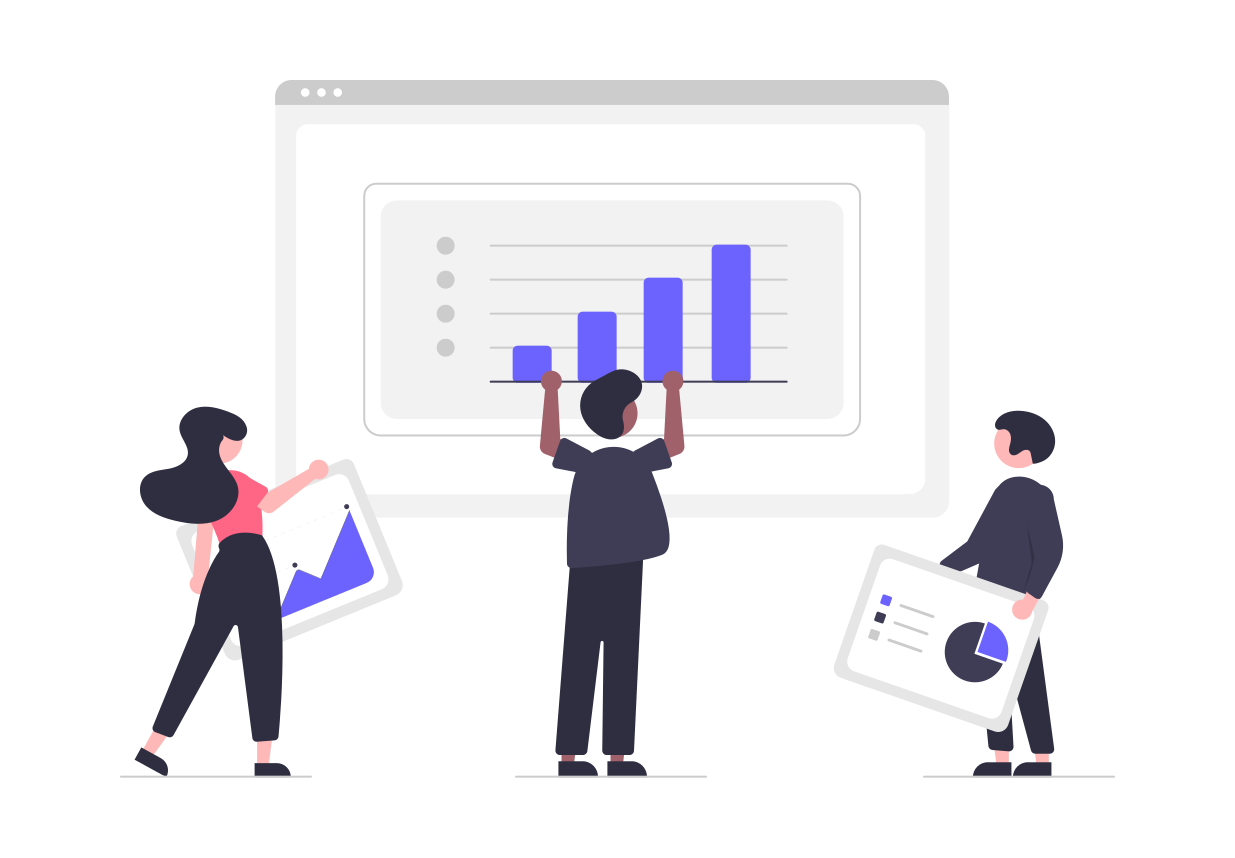
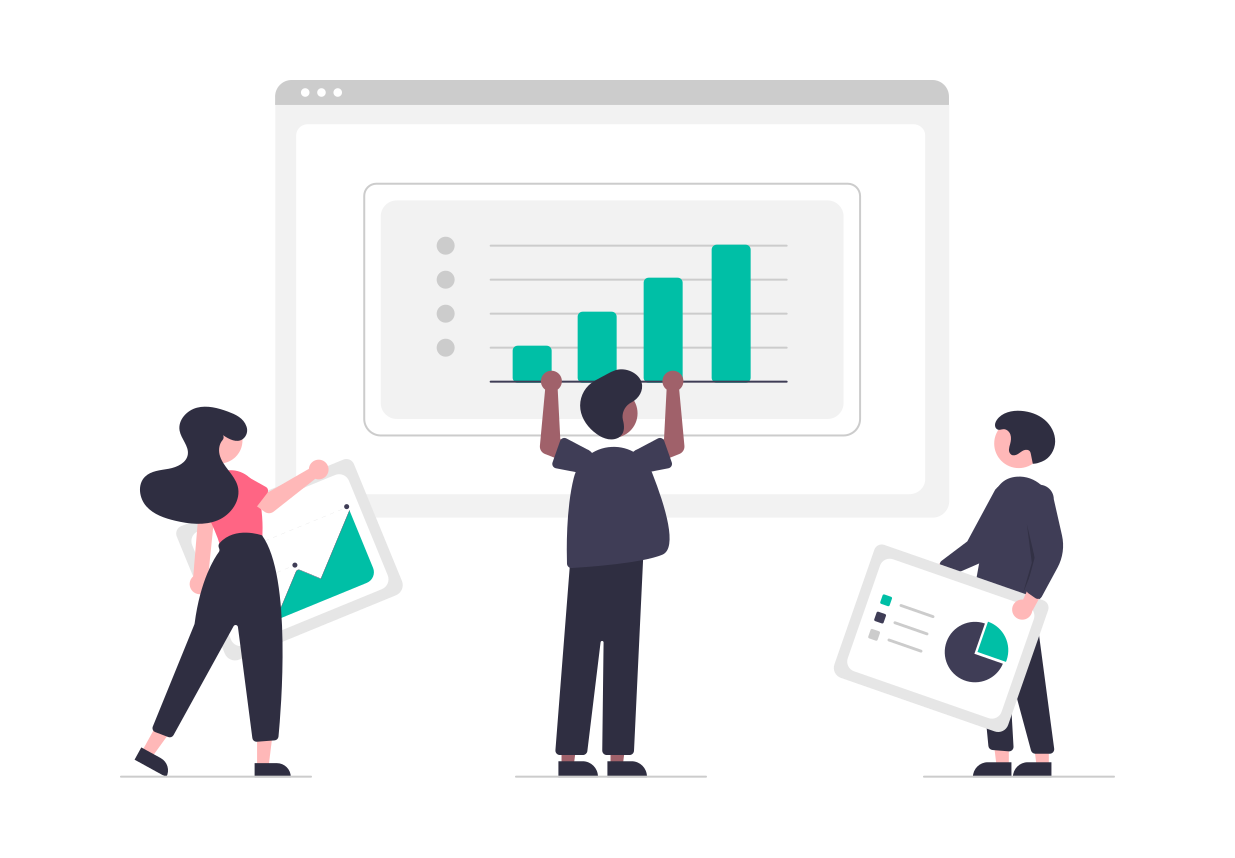
Deployed dd256e3c with MkDocs version: 1.1.2

Changed region(s): [[0.4, 0.2727, 0.6154, 0.4545], [0.2154, 0.6061, 0.3077, 0.7273], [0.7692, 0.7273, 0.8308, 0.7879]]

diff --git a/404.html b/404.html
@@ -29,7 +29,7 @@
         
           
           
-          <meta name="theme-color" content="">
+          <meta name="theme-color" content="#009485">
         
       
     
@@ -56,7 +56,7 @@
     
     
     
-    <body dir="ltr" data-md-color-scheme="" data-md-color-primary="default" data-md-color-accent="">
+    <body dir="ltr" data-md-color-scheme="" data-md-color-primary="teal" data-md-color-accent="">
       
   
     

diff --git a/index.html b/index.html
@@ -29,7 +29,7 @@
         
           
           
-          <meta name="theme-color" content="">
+          <meta name="theme-color" content="#009485">
         
       
     
@@ -56,7 +56,7 @@
     
     
     
-    <body dir="ltr" data-md-color-scheme="" data-md-color-primary="default" data-md-color-accent="">
+    <body dir="ltr" data-md-color-scheme="" data-md-color-primary="teal" data-md-color-accent="">
       
   
     

diff --git a/mozdata/account_ecosystem/index.html b/mozdata/account_ecosystem/index.html
@@ -29,7 +29,7 @@
         
           
           
-          <meta name="theme-color" content="">
+          <meta name="theme-color" content="#009485">
         
       
     
@@ -56,7 +56,7 @@
     
     
     
-    <body dir="ltr" data-md-color-scheme="" data-md-color-primary="default" data-md-color-accent="">
+    <body dir="ltr" data-md-color-scheme="" data-md-color-primary="teal" data-md-color-accent="">
       
   
     

diff --git a/mozdata/activity_stream/index.html b/mozdata/activity_stream/index.html
@@ -29,7 +29,7 @@
         
           
           
-          <meta name="theme-color" content="">
+          <meta name="theme-color" content="#009485">
         
       
     
@@ -56,7 +56,7 @@
     
     
     
-    <body dir="ltr" data-md-color-scheme="" data-md-color-primary="default" data-md-color-accent="">
+    <body dir="ltr" data-md-color-scheme="" data-md-color-primary="teal" data-md-color-accent="">
       
   
     

diff --git a/mozdata/amo_dev/index.html b/mozdata/amo_dev/index.html
@@ -29,7 +29,7 @@
         
           
           
-          <meta name="theme-color" content="">
+          <meta name="theme-color" content="#009485">
         
       
     
@@ -56,7 +56,7 @@
     
     
     
-    <body dir="ltr" data-md-color-scheme="" data-md-color-primary="default" data-md-color-accent="">
+    <body dir="ltr" data-md-color-scheme="" data-md-color-primary="teal" data-md-color-accent="">
       
   
     

diff --git a/mozdata/amo_prod/index.html b/mozdata/amo_prod/index.html
@@ -29,7 +29,7 @@
         
           
           
-          <meta name="theme-color" content="">
+          <meta name="theme-color" content="#009485">
         
       
     
@@ -56,7 +56,7 @@
     
     
     
-    <body dir="ltr" data-md-color-scheme="" data-md-color-primary="default" data-md-color-accent="">
+    <body dir="ltr" data-md-color-scheme="" data-md-color-primary="teal" data-md-color-accent="">
       
   
     

diff --git a/mozdata/default_browser_agent/index.html b/mozdata/default_browser_agent/index.html
@@ -29,7 +29,7 @@
         
           
           
-          <meta name="theme-color" content="">
+          <meta name="theme-color" content="#009485">
         
       
     
@@ -56,7 +56,7 @@
     
     
     
-    <body dir="ltr" data-md-color-scheme="" data-md-color-primary="default" data-md-color-accent="">
+    <body dir="ltr" data-md-color-scheme="" data-md-color-primary="teal" data-md-color-accent="">
       
   
     

diff --git a/mozdata/firefox_accounts/index.html b/mozdata/firefox_accounts/index.html
@@ -29,7 +29,7 @@
         
           
           
-          <meta name="theme-color" content="">
+          <meta name="theme-color" content="#009485">
         
       
     
@@ -56,7 +56,7 @@
     
     
     
-    <body dir="ltr" data-md-color-scheme="" data-md-color-primary="default" data-md-color-accent="">
+    <body dir="ltr" data-md-color-scheme="" data-md-color-primary="teal" data-md-color-accent="">
       
   
     

diff --git a/mozdata/internet_outages/index.html b/mozdata/internet_outages/index.html
@@ -29,7 +29,7 @@
         
           
           
-          <meta name="theme-color" content="">
+          <meta name="theme-color" content="#009485">
         
       
     
@@ -56,7 +56,7 @@
     
     
     
-    <body dir="ltr" data-md-color-scheme="" data-md-color-primary="default" data-md-color-accent="">
+    <body dir="ltr" data-md-color-scheme="" data-md-color-primary="teal" data-md-color-accent="">
       
   
     

diff --git a/mozdata/introduction/index.html b/mozdata/introduction/index.html
@@ -29,7 +29,7 @@
         
           
           
-          <meta name="theme-color" content="">
+          <meta name="theme-color" content="#009485">
         
       
     
@@ -56,7 +56,7 @@
     
     
     
-    <body dir="ltr" data-md-color-scheme="" data-md-color-primary="default" data-md-color-accent="">
+    <body dir="ltr" data-md-color-scheme="" data-md-color-primary="teal" data-md-color-accent="">
       
   
     

diff --git a/mozdata/messaging_system/index.html b/mozdata/messaging_system/index.html
@@ -29,7 +29,7 @@
         
           
           
-          <meta name="theme-color" content="">
+          <meta name="theme-color" content="#009485">
         
       
     
@@ -56,7 +56,7 @@
     
     
     
-    <body dir="ltr" data-md-color-scheme="" data-md-color-primary="default" data-md-color-accent="">
+    <body dir="ltr" data-md-color-scheme="" data-md-color-primary="teal" data-md-color-accent="">
       
   
     

diff --git a/mozdata/monitoring/index.html b/mozdata/monitoring/index.html
@@ -29,7 +29,7 @@
         
           
           
-          <meta name="theme-color" content="">
+          <meta name="theme-color" content="#009485">
         
       
     
@@ -56,7 +56,7 @@
     
     
     
-    <body dir="ltr" data-md-color-scheme="" data-md-color-primary="default" data-md-color-accent="">
+    <body dir="ltr" data-md-color-scheme="" data-md-color-primary="teal" data-md-color-accent="">
       
   
     
